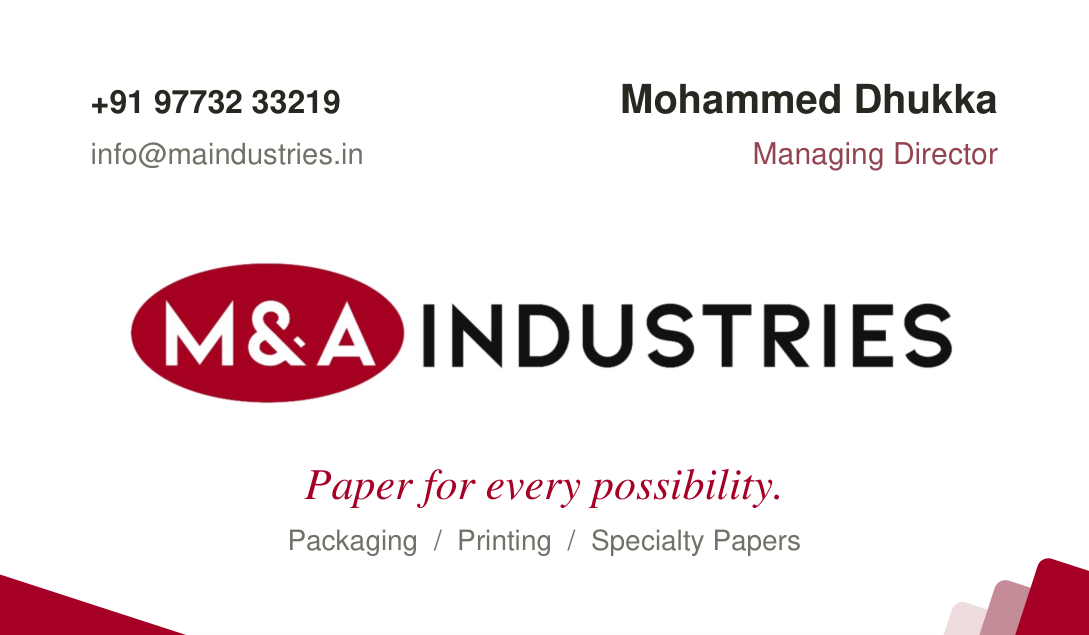
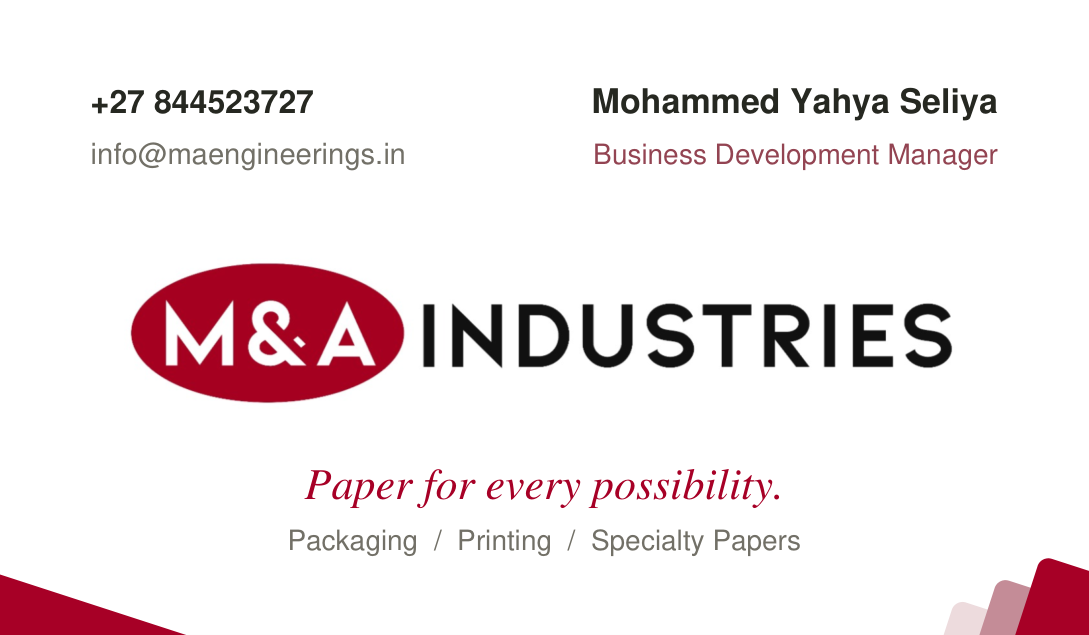
new update

diff --git a/scripts/create-visiting-card.py b/scripts/create-visiting-card.py
@@ -15,14 +15,17 @@ from urllib.parse import urlparse
 
 parser = argparse.ArgumentParser()
 parser.add_argument('--website', required=True, help='Confirmed public website URL')
-parser.add_argument('--person', choices=['maaz', 'aadil', 'mohammed'], default='maaz')
+parser.add_argument('--person', choices=['maaz', 'aadil', 'mohammed', 'yahya'], default='maaz')
 args = parser.parse_args()
 WEBSITE = args.website
 NAME, PHONE, DISPLAY_PHONE, FILE_NAME = {
     'maaz': ('Maaz Dawa', '919769681761', '+91 97696 81761', 'Maaz'),
     'aadil': ('Aadil Dhukka', '919769554745', '+91 97695 54745', 'Aadil'),
     'mohammed': ('Mohammed Dhukka', '919773233219', '+91 97732 33219', 'Mohammed'),
+    'yahya': ('Mohammed Yahya Seliya', '27844523727', '+27 844523727', 'Yahya'),
 }[args.person]
+EMAIL = 'info@maengineerings.in' if args.person == 'yahya' else 'info@maindustries.in'
+TITLE = 'Business Development Manager' if args.person == 'yahya' else ('Managing Director' if args.person == 'mohammed' else 'Director')
 assert urlparse(WEBSITE).scheme in ('https', 'http') and urlparse(WEBSITE).netloc
 
 ROOT = Path(__file__).resolve().parents[1]
@@ -77,9 +80,9 @@ def paper_layers(x, y):
 c.setFillColor(white)
 c.rect(0, 0, W, H, fill=1, stroke=0)
 text(8, 46, DISPLAY_PHONE, 8, 'Helvetica-Bold')
-text(8, 41.5, 'info@maindustries.in', 7.3, color=SOFT_INK)
-right(88, 46, NAME, 10, 'Helvetica-Bold')
-right(88, 41.5, 'Managing Director' if args.person == 'mohammed' else 'Director', 7.5, color=MUTED)
+text(8, 41.5, EMAIL, 7.3, color=SOFT_INK)
+right(88, 46, NAME, 8.5 if args.person == 'yahya' else 10, 'Helvetica-Bold')
+right(88, 41.5, TITLE, 7.0 if args.person == 'yahya' else 7.5, color=MUTED)
 # A white panel preserves the supplied logo's original background.
 c.setFillColor(white)
 c.roundRect(8*mm, 18*mm, 80*mm, 17*mm, 2*mm, fill=1, stroke=0)
@@ -90,7 +93,7 @@ centered(48, 7.5, 'Packaging  /  Printing  /  Specialty Papers', 7, color=SOFT_I
 paper_layers(-18, -13)
 paper_layers(79, -13)
 c.linkURL('https://wa.me/' + PHONE, (8*mm,44*mm,42*mm,49*mm))
-c.linkURL('mailto:info@maindustries.in', (8*mm,40*mm,43*mm,44*mm))
+c.linkURL('mailto:' + EMAIL, (8*mm,40*mm,43*mm,44*mm))
 c.showPage()
 
 # Back: two equally sized codes with their quiet zones intact.
